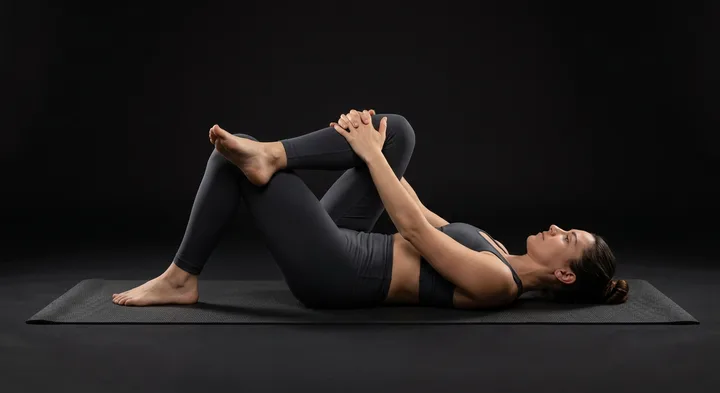
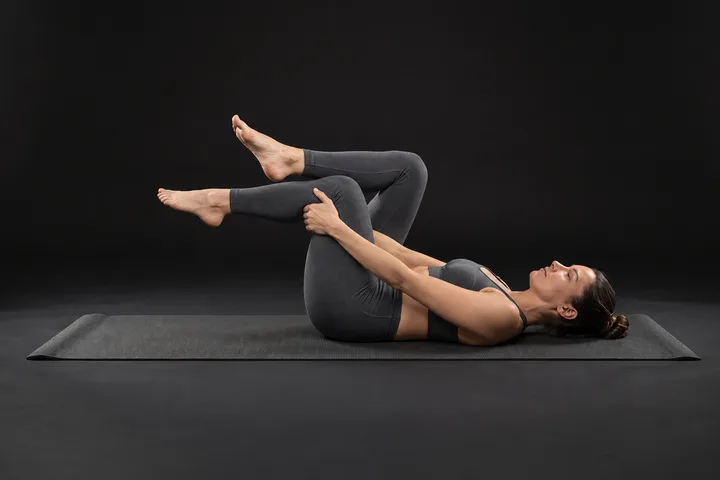
Piriformis: new frame 2, hands hold the lower leg
Claude-Session: https://claude.ai/code/session_017924XBJbRZB1NdLFDXCxtq

Changed region(s): [[0.0, 0.2443, 1.0, 0.855]]

diff --git a/sw.js b/sw.js
@@ -1,5 +1,5 @@
 // Офлайн-режим: оболочка и картинки кэшируются; страница и скрипты обновляются из сети, когда она есть.
-var V='back-v7';
+var V='back-v8';
 var CORE=["./", "index.html", "anim.js", "tgbk.js", "ydsync.js", "manifest.webmanifest", "icon-192.png", "icon-512.png", "apple-touch-icon.png", "favicon-32.png", "icon.svg", "gif/ph-1-1.webp", "gif/ph-30-1.webp", "gif/ph-1-2.webp", "gif/ph-10-1.webp", "gif/ph-10-2.webp", "gif/ph-12-1.webp", "gif/ph-12-2.webp", "gif/ph-14-1.webp", "gif/ph-14-2.webp", "gif/ph-16-1.webp", "gif/ph-16-2.webp", "gif/ph-17-1.webp", "gif/ph-17-2.webp", "gif/ph-18-1.webp", "gif/ph-18-2.webp", "gif/ph-19-1.webp", "gif/ph-19-2.webp", "gif/ph-2-1.webp", "gif/ph-2-2.webp", "gif/ph-20-1.webp", "gif/ph-21-1.webp", "gif/ph-21-2.webp", "gif/ph-23-1.webp", "gif/ph-23-2.webp", "gif/ph-24-1.webp", "gif/ph-24-2.webp", "gif/ph-4-1.webp", "gif/ph-4-2.webp", "gif/ph-6-1.webp", "gif/ph-6-2.webp", "gif/ph-8-1.webp", "gif/ph-8-2.webp"];
 self.addEventListener('install',function(e){
   e.waitUntil(caches.open(V).then(function(c){return c.addAll(CORE);}).then(function(){return self.skipWaiting();}));
